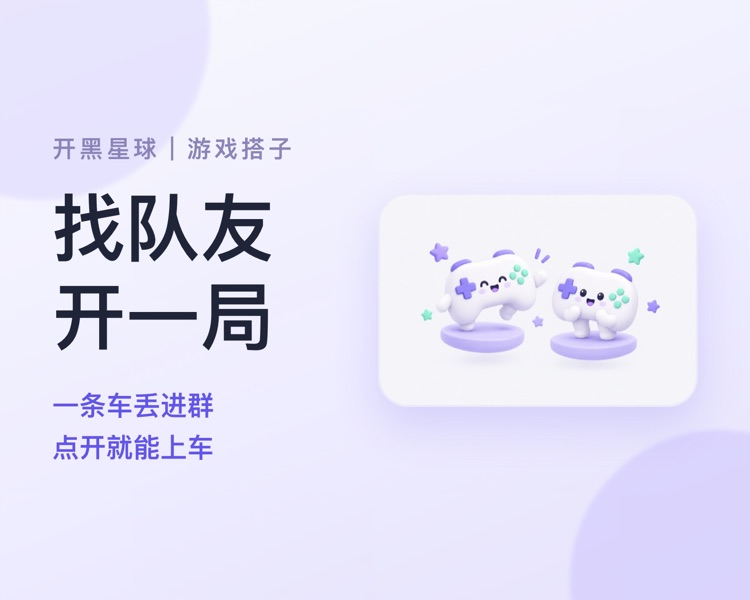
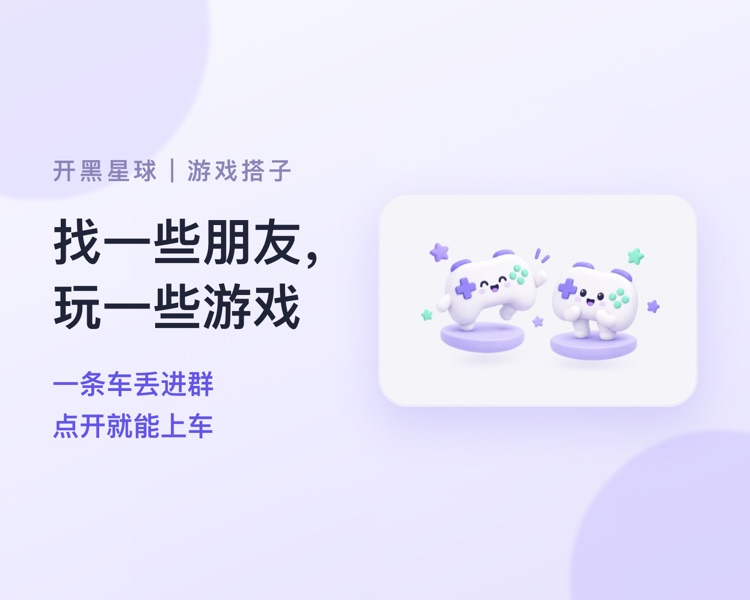
feat(share): 分享封面大字换成「找一些朋友，玩一些游戏」

Changed region(s): [[0.0613, 0.21, 0.4293, 0.78]]

diff --git a/docs/promo/_build/share-cover.js b/docs/promo/_build/share-cover.js
@@ -38,7 +38,7 @@ const html = `<!doctype html><html lang="zh"><head><meta charset="utf-8"><style>
 
   <div style="position:relative;width:300px">
     <div style="font-size:24px;font-weight:800;color:#8B84B8;letter-spacing:3px">开黑星球｜游戏搭子</div>
-    <div style="font-size:74px;font-weight:900;line-height:1.2;margin-top:18px">找队友<br/>开一局</div>
+    <div style="font-size:50px;font-weight:900;line-height:1.3;margin-top:22px;white-space:nowrap">找一些朋友，<br/>玩一些游戏</div>
     <div style="font-size:27px;font-weight:700;color:#6255E7;line-height:1.55;margin-top:24px">一条车丢进群<br/>点开就能上车</div>
   </div>
 
